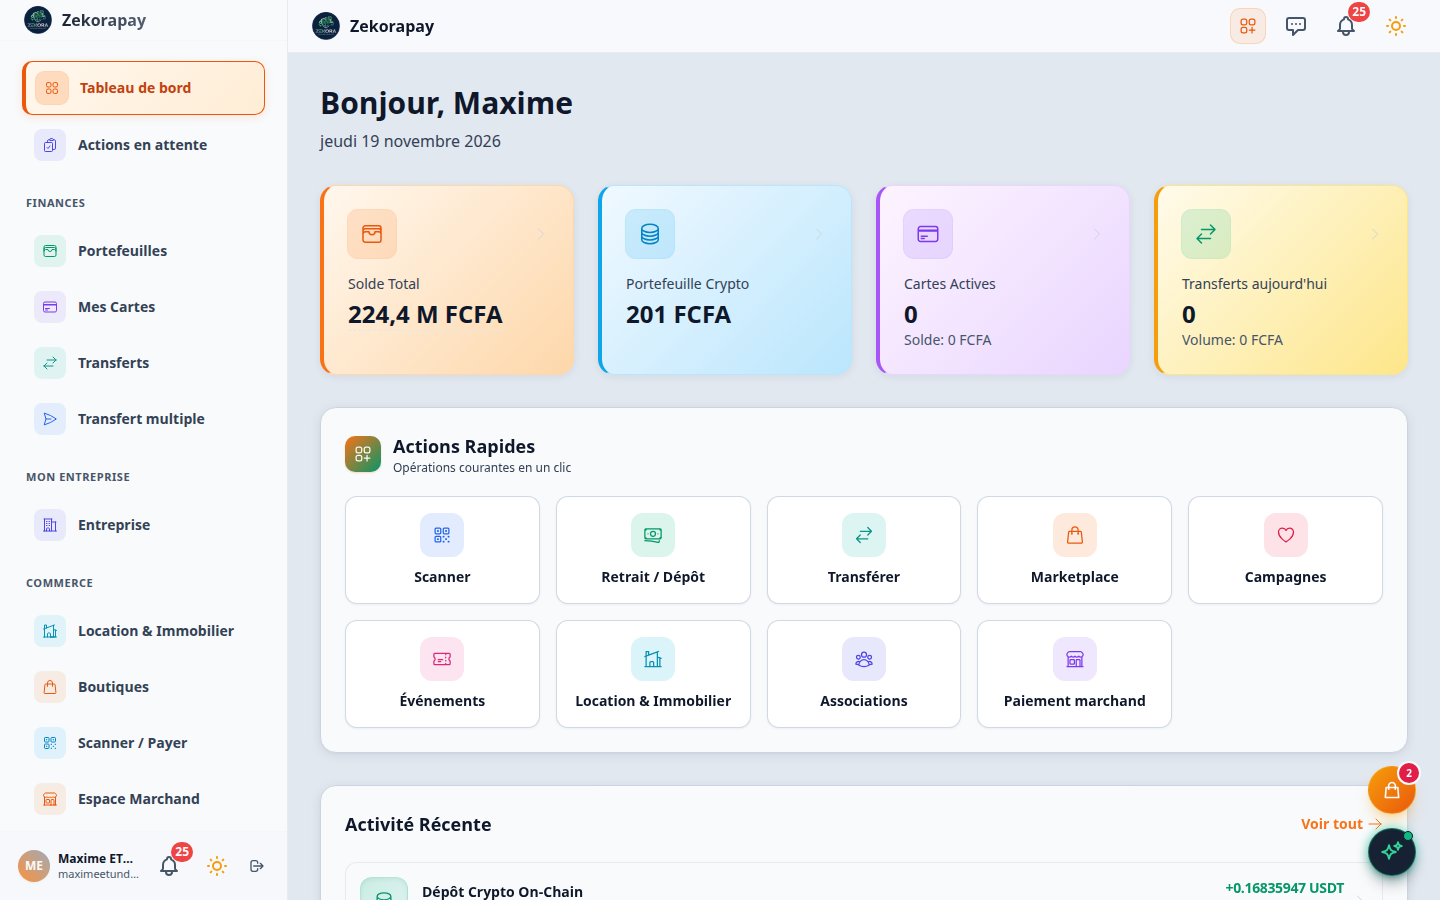
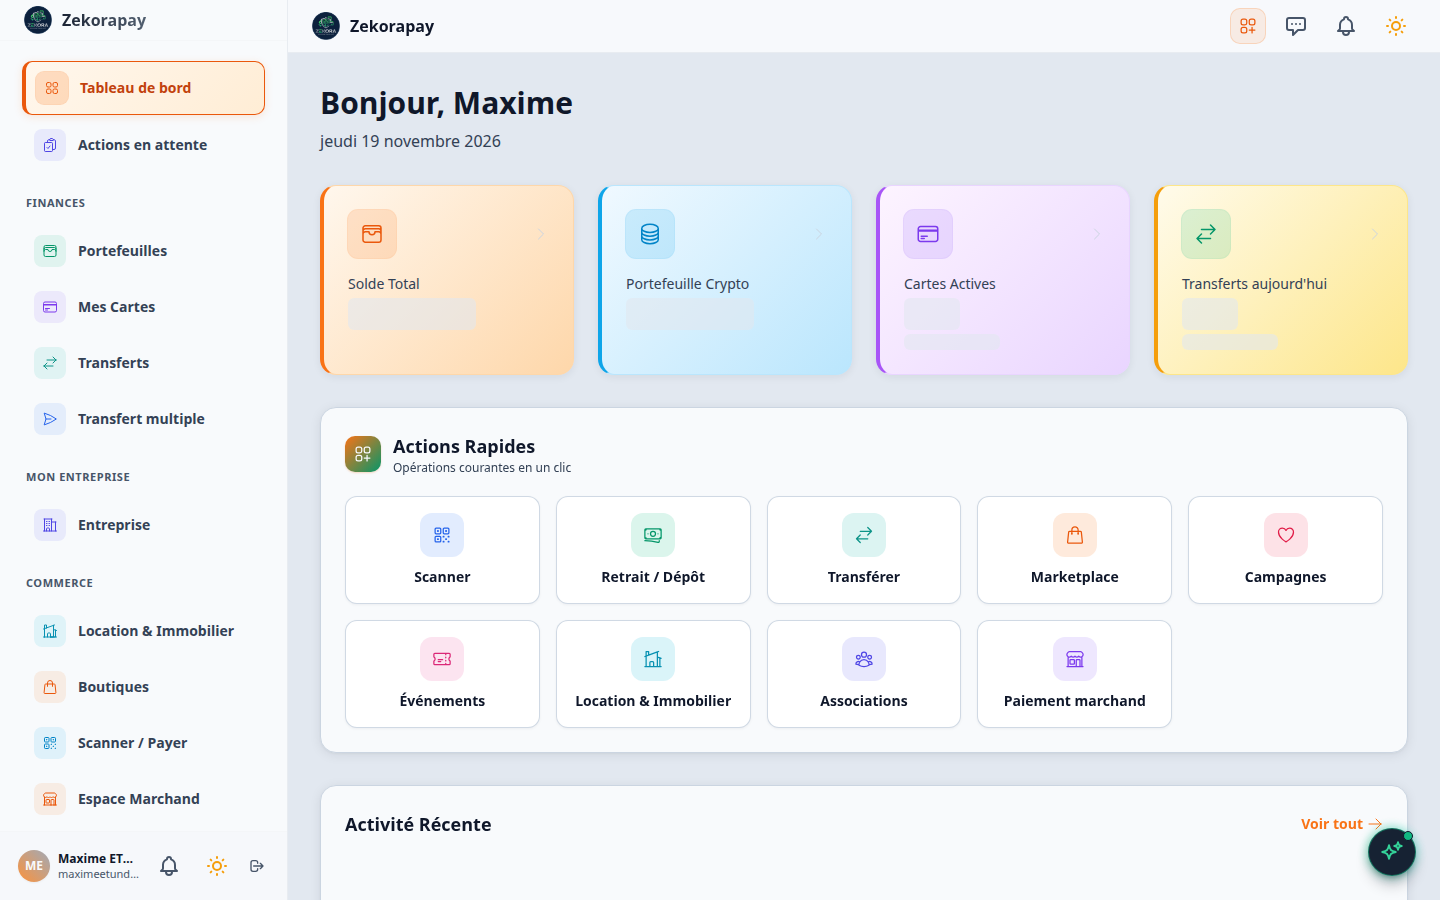
fix(landing): single clean dashboard capture (no tabs/titles), natural hero copy, and modest demo balances

diff --git a/components/AppScreenshotShowcase.vue b/components/AppScreenshotShowcase.vue
@@ -1,76 +1,13 @@
 <script setup lang="ts">
-import { Building2, CreditCard, LayoutDashboard, Maximize2, ShoppingBag, Users, Wallet, X } from "lucide-vue-next";
+import { Maximize2, X } from "lucide-vue-next";
 import { ref } from "vue";
 
 const { t } = useI18n();
-
-const tabs = [
-  {
-    key: "dashboard",
-    icon: LayoutDashboard,
-    imgDesktop: "/guide/demarrage/dashboard.png",
-    imgMobile: "/guide/demarrage/dashboard_mobile.png",
-  },
-  {
-    key: "wallets",
-    icon: Wallet,
-    imgDesktop: "/guide/portefeuilles/overview.png",
-    imgMobile: "/guide/portefeuilles/overview_mobile.png",
-  },
-  {
-    key: "cards",
-    icon: CreditCard,
-    imgDesktop: "/guide/cartes/overview.png",
-    imgMobile: "/guide/cartes/overview_mobile.png",
-  },
-  {
-    key: "tontines",
-    icon: Users,
-    imgDesktop: "/guide/association/association_desktop_workspace_detail.png",
-    imgMobile: "/guide/association/association_mobile_explorer_fr.png",
-  },
-  {
-    key: "shop",
-    icon: ShoppingBag,
-    imgDesktop: "/guide/boutique/marketplace.png",
-    imgMobile: "/guide/boutique/marketplace_mobile.png",
-  },
-  {
-    key: "enterprise",
-    icon: Building2,
-    imgDesktop: "/guide/entreprises/dashboard.png",
-    imgMobile: "/guide/entreprises/dashboard_mobile.png",
-  },
-] as const;
-
-type TabKey = (typeof tabs)[number]["key"];
-const activeTab = ref<TabKey>("dashboard");
 const lightboxOpen = ref(false);
-
-const currentTab = computed(() => tabs.find((tab) => tab.key === activeTab.value) || tabs[0]);
 </script>
 
 <template>
   <div class="relative mx-auto w-full max-w-xl select-none">
-    <!-- Interactive App Screen Switcher -->
-    <div class="mb-3 flex flex-wrap items-center justify-center gap-1.5 lg:justify-start">
-      <button
-        v-for="tab in tabs"
-        :key="tab.key"
-        type="button"
-        class="inline-flex items-center gap-1.5 rounded-full border px-3 py-1.5 text-xs font-bold transition-all"
-        :class="
-          activeTab === tab.key
-            ? 'border-brand bg-brand text-white shadow-sm'
-            : 'border-slate-200 bg-white text-slate-600 hover:border-primary-300 hover:text-deep dark:border-slate-700 dark:bg-slate-800/80 dark:text-slate-300 dark:hover:text-white'
-        "
-        @click="activeTab = tab.key"
-      >
-        <component :is="tab.icon" class="h-3.5 w-3.5" />
-        {{ t(`screenshotTabs.${tab.key}`) }}
-      </button>
-    </div>
-
     <!-- Desktop App Frame (shown on md+ screens) -->
     <div class="group relative hidden overflow-hidden rounded-2xl border border-slate-200/90 bg-white shadow-2xl shadow-slate-200/70 dark:border-slate-700/80 dark:bg-slate-900 dark:shadow-black/50 md:block">
       <div class="flex items-center justify-between border-b border-slate-100 bg-slate-50 px-4 py-2.5 dark:border-slate-800 dark:bg-slate-950/70">
@@ -96,8 +33,8 @@ const currentTab = computed(() => tabs.find((tab) => tab.key === activeTab.value
         @click="lightboxOpen = true"
       >
         <img
-          :src="currentTab.imgDesktop"
-          :alt="t(`screenshotTabs.${currentTab.key}`)"
+          src="/guide/demarrage/dashboard.png"
+          alt="ZekoraPay Dashboard"
           class="aspect-[16/10] w-full object-cover object-top transition duration-300 group-hover:scale-[1.01]"
         >
       </button>
@@ -106,16 +43,11 @@ const currentTab = computed(() => tabs.find((tab) => tab.key === activeTab.value
     <!-- Mobile App Frame (shown on small mobile screens < md) -->
     <div class="mx-auto block w-[260px] overflow-hidden rounded-[2.2rem] border-[6px] border-slate-900 bg-slate-900 shadow-2xl shadow-slate-300/60 dark:border-slate-700 dark:shadow-black/60 md:hidden">
       <img
-        :src="currentTab.imgMobile"
-        :alt="t(`screenshotTabs.${currentTab.key}`)"
+        src="/guide/demarrage/dashboard_mobile.png"
+        alt="ZekoraPay Mobile Dashboard"
         class="w-full object-cover"
       >
     </div>
-
-    <!-- Caption -->
-    <p class="mt-2.5 text-center text-xs font-medium text-slate-500 dark:text-slate-400 lg:text-left">
-      {{ t(`screenshotTabs.captions.${currentTab.key}`) }}
-    </p>
 
     <!-- Lightbox Modal -->
     <Teleport to="body">
@@ -133,8 +65,8 @@ const currentTab = computed(() => tabs.find((tab) => tab.key === activeTab.value
             <X class="h-5 w-5" />
           </button>
           <img
-            :src="currentTab.imgDesktop"
-            :alt="t(`screenshotTabs.${currentTab.key}`)"
+            src="/guide/demarrage/dashboard.png"
+            alt="ZekoraPay Dashboard"
             class="max-h-[85vh] w-full object-contain"
           >
         </div>
